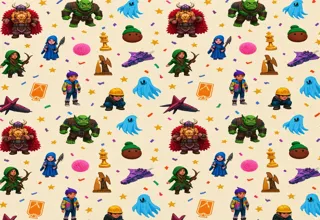
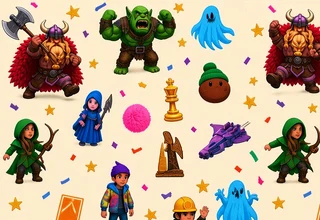
Carpet: new varied-pose texture, seamless plain repeat (no mirrored head-to-head duplicates), standing diggers

diff --git a/test/strike.js b/test/strike.js
@@ -11,7 +11,7 @@ const { open } = require('./lib');
   chk(Math.abs(info.rot - info.nrot) < 1e-6 && Math.abs(info.rot + Math.PI / 2) < 1e-6, 'faces straight into the room like the row (not 45deg) ' + info.rot.toFixed(3));
   chk(['screen', 'marquee', 'sidePanelL', 'sidePanelR', 'bezel', 'controlPanel', 'joystick', 'btnFIRE', 'btnBOMB', 'btnHYPER', 'btn1P', 'btn2P', 'coinDoor', 'tMolding', 'screenGlow'].every(n => info.names.includes(n)), 'all parts present');
   chk(info.neon === 0, 'no neon (MeshBasic) meshes on STRIKE cabinet');
-  chk(info.blank === 16, '16 blank cabinets (doorway in the middle north slot) + 3 featured (STRIKE, BERSERKER, GHOST 256)');
+  chk(info.blank === 15, '15 blank cabinets (doorway in the middle north slot) + 4 featured (STRIKE, BERSERKER, MONKEY CROSSING, GHOST 256) ' + info.blank);
   // walk up to it: camera showcase + texture changes
   await page.evaluate(() => { const A = window.__arcade; window.__noAdapt = 1; const f = A.strikeCab.userData.front; A.monkey.position.set(f.x + 1.5, 0, f.z + 1.5); A.st.yaw = Math.PI; A.st.lookT = -99; });
   const hash = () => page.evaluate(() => { const cv = window.__arcade.demo.w.document.getElementById('c'), g = cv.getContext('2d'), d = g.getImageData(0, 0, cv.width, cv.height).data; let h = 0; for (let i = 0; i < d.length; i += 97) h = (h * 31 + d[i]) >>> 0; return { h, frames: window.__arcade.demo.frames, st: window.__arcade.demo.SK.state() }; });

diff --git a/sw.js b/sw.js
@@ -1,4 +1,4 @@
-const CACHE='neon-arcade-v13';
+const CACHE='neon-arcade-v14';
 const ASSETS=['./','index.html','main.js','strikecab.js','strike-demo/index.html','ghostcab.js','berserkcab.js','shield.js','tex/bz_side.jpg','tex/bz_marquee.jpg','tex/bz_knot.jpg','ghost-demo/index.html','play.js','strike-play/index.html','ghost-play/index.html','ticket-art.js','img/start.webp','img/start.jpg','tex/carpet.webp','img/floor_neon.webp','img/floor_carpet.webp','monkeycab.js','monkey-play/index.html','berserker-play/index.html','tex/mc_side.jpg','tex/mc_marquee.jpg','tex/mc_panel.jpg','img/bz_title.jpg','manifest.webmanifest','icons/icon-192.png','icons/icon-512.png','icons/icon-maskable-512.png','icons/apple-touch-icon.png',
 'vendor/three.module.js','vendor/addons/objects/Reflector.js','vendor/addons/postprocessing/EffectComposer.js','vendor/addons/postprocessing/RenderPass.js','vendor/addons/postprocessing/UnrealBloomPass.js','vendor/addons/postprocessing/OutputPass.js','vendor/addons/postprocessing/Pass.js','vendor/addons/postprocessing/ShaderPass.js','vendor/addons/postprocessing/MaskPass.js','vendor/addons/shaders/CopyShader.js','vendor/addons/shaders/LuminosityHighPassShader.js','vendor/addons/shaders/OutputShader.js','vendor/addons/utils/BufferGeometryUtils.js'];
 self.addEventListener('install',e=>{e.waitUntil(caches.open(CACHE).then(c=>c.addAll(ASSETS)).then(()=>self.skipWaiting()));});

diff --git a/main.js b/main.js
@@ -329,7 +329,7 @@ const room2 = new THREE.Group(); room2.name = 'room2'; room2.position.set(0, 0, 
 // ---------- room 1 floor option: neon reflective (default) or cream character carpet (Options > FLOOR) ----------
 const FLOOR_KEY = 'neonarcade.floor';
 const carpetTex = new THREE.TextureLoader().load('tex/carpet.webp');
-carpetTex.colorSpace = THREE.SRGBColorSpace; carpetTex.wrapS = carpetTex.wrapT = THREE.MirroredRepeatWrapping;   // mirrored repeat: no tiling seams
+carpetTex.colorSpace = THREE.SRGBColorSpace; carpetTex.wrapS = carpetTex.wrapT = THREE.RepeatWrapping;   // seamless tile (edge-cut figures removed): plain repeat, never mirrored (mirroring put copies head to head)
 carpetTex.repeat.set(3, 3); carpetTex.anisotropy = renderer.capabilities.getMaxAnisotropy();
 const carpet = new THREE.Mesh(new THREE.PlaneGeometry(HALF * 2, HALF * 2), new THREE.MeshStandardMaterial({
   map: carpetTex, color: 0xe8ded0, roughness: 1, metalness: 0, emissive: 0xfff0dc, emissiveMap: carpetTex, emissiveIntensity: 0.3 }));   // matte; a little self-light keeps cream warm under the neon
